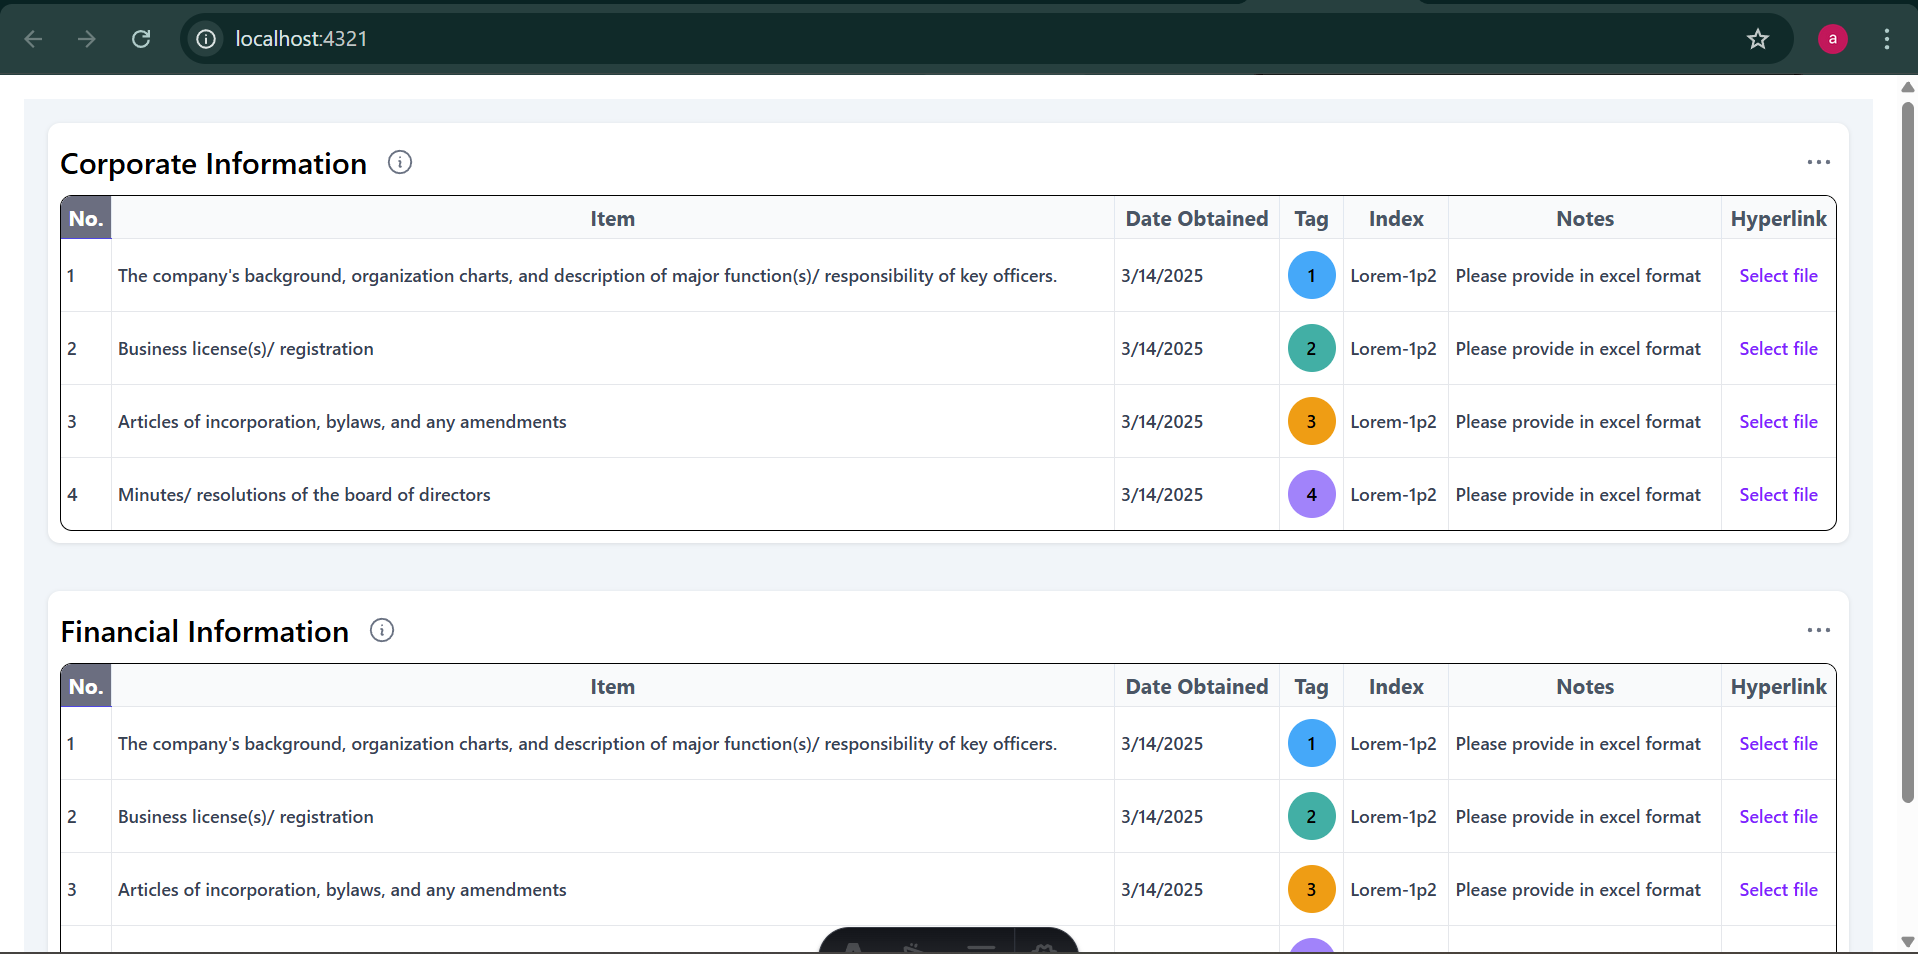
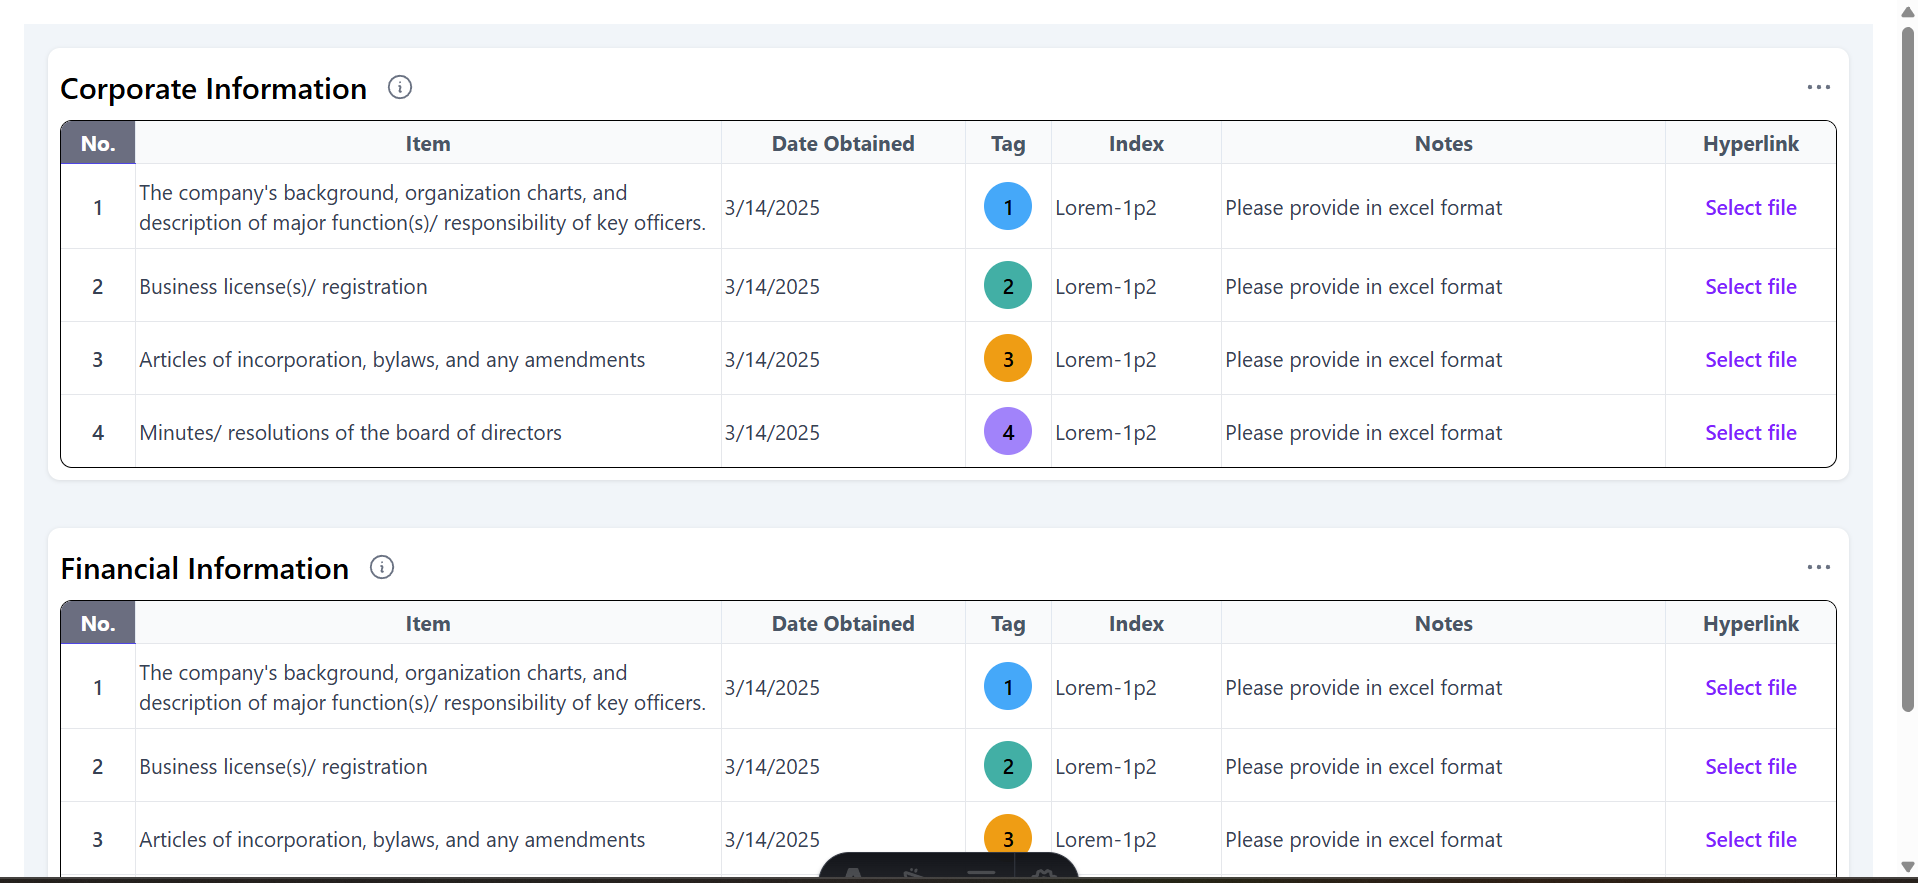
css change

diff --git a/src/components/TableRow.tsx b/src/components/TableRow.tsx
@@ -25,7 +25,7 @@ const TableRow: React.FC<TableRowProps> = ({ rowData, columns }) => {
 
         if (col.key === "hyperlink") {
           cellContent = (
-            <span className="text-violet-600 items-center justify-center font-semibold cursor-pointer whitespace-nowrap">
+            <span className="text-violet-600 items-center justify-center cursor-pointer whitespace-nowrap">
               {rowData[col.key]}
             </span>
           );
@@ -33,12 +33,12 @@ const TableRow: React.FC<TableRowProps> = ({ rowData, columns }) => {
 
         // Apply center alignment only to "tag" and "hyperlink" cells
         const centerCell =
-          col.key === "tag" || col.key === "hyperlink"
-            ? "text-center align-middle"
+          col.key === "tag" || col.key === "hyperlink" || col.key === "no"
+            ? "text-center align-middle font-semibold"
             : "";
 
         return (
-          <td key={col.key} className={`px-1 py-2 text-gray-700 text-s max-w-[200px] ${centerCell} `}>
+          <td key={col.key} className={`px-0.5 py-2 text-gray-700 text-s max-w-[250px] ${centerCell} `}>
             {cellContent}
           </td>
         );
